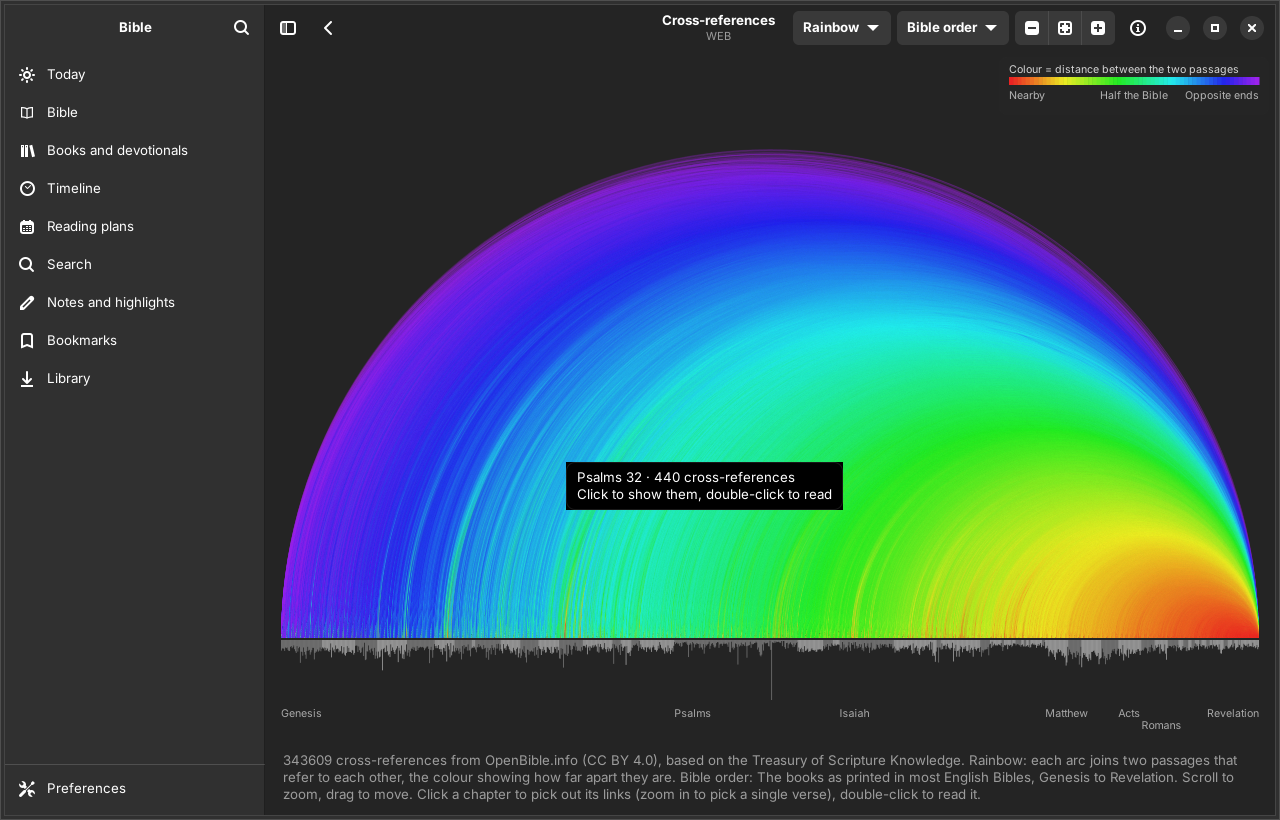
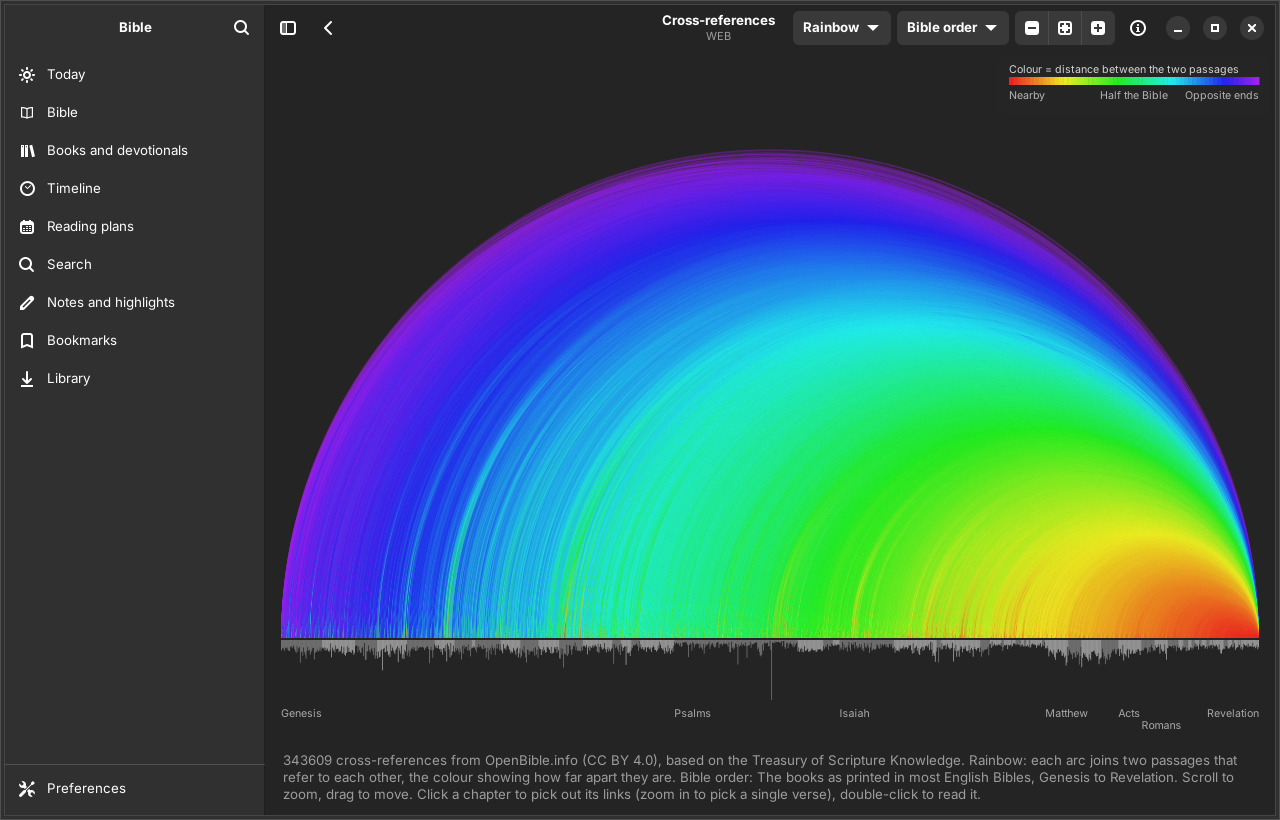
Website: redesign in the app's own style; fix the squashed screenshot

Changed region(s): [[0.4375, 0.5488, 0.6562, 0.6402]]

diff --git a/website/index.html b/website/index.html
@@ -3,73 +3,148 @@
 <head>
 <meta charset="utf-8">
 <meta name="viewport" content="width=device-width, initial-scale=1">
-<title>Bible: offline Bible study for GNOME</title>
-<meta name="description" content="A free, open-source, offline Bible app for GNOME: interlinear Greek and Hebrew, a zoomable cross-reference map, book introductions, maps, a timeline, notes, reading plans and the church year.">
+<title>Bible: an offline Bible app for GNOME</title>
+<meta name="description" content="A free, open-source, offline Bible app for GNOME, with interlinear Greek and Hebrew, a zoomable cross-reference map, book introductions, maps, a timeline, notes, reading plans and the church year.">
 <link rel="icon" href="icon.svg">
 <style>
-:root{--bg:#fafaf8;--fg:#1d1d1b;--muted:#5e5c58;--card:#fff;--line:#e4e2dc;--accent:#3584e4;--gold:#b8761a}
-@media (prefers-color-scheme:dark){:root{--bg:#1e1e1e;--fg:#f2f1ee;--muted:#b0aea8;--card:#2a2a2a;--line:#3a3a38;--accent:#78aeed;--gold:#e9b45a}}
-*{box-sizing:border-box}body{margin:0;background:var(--bg);color:var(--fg);font:17px/1.6 "Cantarell","Inter",system-ui,sans-serif}
-a{color:var(--accent)}main{max-width:1080px;margin:0 auto;padding:0 24px}
-header{text-align:center;padding:72px 0 40px}header img{width:112px;height:112px}
-h1{font-size:44px;margin:12px 0 4px;font-weight:700;letter-spacing:-.5px}.lead{font-size:21px;color:var(--muted);max-width:640px;margin:0 auto 28px}
-.btns{display:flex;gap:12px;justify-content:center;flex-wrap:wrap}.btn{display:inline-block;padding:12px 26px;border-radius:999px;text-decoration:none;font-weight:600;border:1px solid var(--line);color:var(--fg)}
-.btn.primary{background:var(--accent);border-color:var(--accent);color:#fff}
-.hero{width:100%;border-radius:14px;border:1px solid var(--line);margin:28px 0 8px;box-shadow:0 10px 40px rgba(0,0,0,.12)}
-h2{font-size:28px;margin:64px 0 16px;text-align:center}
-.grid{display:grid;grid-template-columns:repeat(auto-fit,minmax(280px,1fr));gap:16px}
-.card{background:var(--card);border:1px solid var(--line);border-radius:14px;padding:20px 22px}.card h3{margin:0 0 6px;font-size:18px}.card p{margin:0;color:var(--muted);font-size:15.5px}
-.shots{display:grid;grid-template-columns:repeat(auto-fit,minmax(420px,1fr));gap:18px}.shots figure{margin:0}.shots img{width:100%;border-radius:12px;border:1px solid var(--line)}
-figcaption{color:var(--muted);font-size:14px;text-align:center;margin-top:6px}
-pre{background:var(--card);border:1px solid var(--line);border-radius:12px;padding:16px 18px;overflow-x:auto;font-size:15px}
-.vision{max-width:720px;margin:0 auto;text-align:center;font-size:19px}.vision em{color:var(--gold);font-style:normal;font-weight:600}
-footer{color:var(--muted);font-size:14px;text-align:center;padding:56px 0 40px;border-top:1px solid var(--line);margin-top:72px}
+:root{
+  --paper:#f7f3ea;--ink:#211d17;--muted:#6b6458;--rule:#ddd4c3;--gold:#9a6412;--panel:#efe8da;
+  --serif:"Iowan Old Style","Palatino Linotype",Palatino,"Book Antiqua",Georgia,serif;
+  --sans:"Cantarell","Inter",system-ui,-apple-system,sans-serif;
+}
+@media (prefers-color-scheme:dark){:root{--paper:#1b1916;--ink:#ece6da;--muted:#a69e90;--rule:#3a352d;--gold:#e0ab55;--panel:#24211c}}
+*{box-sizing:border-box}
+body{margin:0;background:var(--paper);color:var(--ink);font:17px/1.65 var(--sans)}
+a{color:var(--gold)}
+.wrap{max-width:1120px;margin:0 auto;padding:0 28px}
+nav{display:flex;align-items:center;gap:10px;padding:22px 0;font-weight:600}
+nav img{width:30px;height:30px}
+nav .links{margin-left:auto;display:flex;gap:22px;font-weight:500;font-size:15px}
+nav .links a{color:var(--ink);text-decoration:none}
+nav .links a:hover{color:var(--gold)}
+.hero{display:grid;grid-template-columns:minmax(0,5fr) minmax(0,7fr);gap:48px;align-items:center;padding:40px 0 72px}
+.hero h1{font:400 60px/1.05 var(--serif);margin:0 0 20px;letter-spacing:-.5px}
+.hero h1 em{color:var(--gold);font-style:italic}
+.hero p{font-size:19px;color:var(--muted);margin:0 0 28px;max-width:30em}
+.actions{display:flex;gap:16px;align-items:center;flex-wrap:wrap}
+.btn{display:inline-block;background:var(--ink);color:var(--paper);padding:13px 24px;border-radius:8px;text-decoration:none;font-weight:600}
+.btn:hover{background:var(--gold);color:#fff}
+.quiet{color:var(--ink);font-weight:500}
+.note{font-size:14px;color:var(--muted);margin-top:14px}
+.shot{width:100%;height:auto;display:block;border-radius:10px;border:1px solid var(--rule);box-shadow:0 18px 50px -20px rgba(40,30,10,.45)}
+.verse{border-top:1px solid var(--rule);border-bottom:1px solid var(--rule);padding:44px 0;text-align:center}
+.verse blockquote{margin:0 auto;max-width:40em;font:italic 400 26px/1.45 var(--serif)}
+.verse cite{display:block;margin-top:10px;font:600 13px/1 var(--sans);letter-spacing:.12em;text-transform:uppercase;color:var(--muted);font-style:normal}
+.feature{display:grid;grid-template-columns:minmax(0,1fr) minmax(0,1.35fr);gap:56px;align-items:center;padding:72px 0;border-bottom:1px solid var(--rule)}
+.feature.flip{grid-template-columns:minmax(0,1.35fr) minmax(0,1fr)}
+.feature.flip .text{order:2}
+.feature h2{font:400 36px/1.15 var(--serif);margin:0 0 14px}
+.feature p{margin:0 0 12px;color:var(--muted)}
+.kicker{font:600 12px/1 var(--sans);letter-spacing:.14em;text-transform:uppercase;color:var(--gold);margin-bottom:12px}
+.more{padding:72px 0;border-bottom:1px solid var(--rule)}
+.more h2{font:400 36px/1.15 var(--serif);margin:0 0 28px}
+.more dl{display:grid;grid-template-columns:repeat(auto-fit,minmax(300px,1fr));gap:22px 48px;margin:0}
+.more dt{font-weight:600}
+.more dd{margin:2px 0 0;color:var(--muted);font-size:16px}
+.install{padding:72px 0}
+.install h2{font:400 36px/1.15 var(--serif);margin:0 0 14px}
+pre{background:var(--panel);border:1px solid var(--rule);border-radius:8px;padding:16px 18px;overflow-x:auto;font-size:15px;margin:18px 0}
+footer{border-top:1px solid var(--rule);padding:32px 0 48px;color:var(--muted);font-size:14px}
+@media (max-width:860px){
+  .hero,.feature,.feature.flip{grid-template-columns:1fr;gap:28px}
+  .feature.flip .text{order:0}
+  .hero h1{font-size:44px}
+  nav .links{display:none}
+}
 </style>
 </head>
 <body>
-<main>
-<header>
-<img src="icon.svg" alt="">
-<h1>Bible</h1>
-<p class="lead">An offline Bible app for GNOME. Free and open source, with the riches of the whole Christian tradition, as far as you want to go.</p>
-<div class="btns">
-<a class="btn primary" href="https://github.com/fonzi/bible/releases/latest">Download for Linux</a>
-<a class="btn" href="https://github.com/fonzi/bible">Source code</a>
+<div class="wrap">
+<nav><img src="icon.svg" alt="">Bible
+<span class="links"><a href="#features">Features</a><a href="#install">Install</a><a href="https://github.com/fonzi/bible">GitHub</a></span>
+</nav>
+
+<section class="hero">
+<div>
+<h1>Take up and read, <em>anywhere</em>.</h1>
+<p>A free Bible app for GNOME that works offline first, then opens the original languages, cross-references, maps, history and the church year, as far as you want to go.</p>
+<div class="actions">
+<a class="btn" href="https://github.com/fonzi/bible/releases/latest">Download for Linux</a>
+<a class="quiet" href="https://github.com/fonzi/bible">View the source →</a>
 </div>
-<img class="hero" src="screenshots/today.png" alt="The Today page: the church day, where you left off, the passage of the day, a reading plan and today in church history">
-</header>
-
-<p class="vision"><em>Offline first.</em> Everything you download stays with you and works without a connection. Then it reaches as far into Christendom as you want: original languages, cross-references, maps, history, the church year.</p>
-
-<h2>What's inside</h2>
-<div class="grid">
-<div class="card"><h3>Read offline</h3><p>Bibles, commentaries, dictionaries, books and devotionals from SWORD repositories, side by side, with the words of Christ in red.</p></div>
-<div class="card"><h3>Greek and Hebrew</h3><p>Word-by-word interlinear from STEP Bible, with glosses, plain-English grammar, lexicon entries and every occurrence of a word.</p></div>
-<div class="card"><h3>Cross-reference map</h3><p>343,000 cross-references as a rainbow of arcs. Zoom to one verse, or reorder the books by date, writer, language, culture or literary form.</p></div>
-<div class="card"><h3>Every book introduced</h3><p>Built-in introductions to all 66 books and the Apocrypha, with maps, a timeline, and full Wikipedia articles with pictures that read offline once downloaded.</p></div>
-<div class="card"><h3>Notes you own</h3><p>Highlights in named colours, Markdown notes that work with Obsidian, bookmarks with tags, and export.</p></div>
-<div class="card"><h3>The church year</h3><p>Today's feast or season for your tradition (Catholic, Orthodox, Anglican, Protestant), a passage of the day, church history and an optional fasting calendar.</p></div>
-<div class="card"><h3>Listen and follow</h3><p>Chapter audio with GNOME media controls, reading plans that wait for you, and a full-screen presentation mode.</p></div>
-<div class="card"><h3>Made for GNOME</h3><p>Built with GTK 4 and libadwaita, light and dark, with GNOME Shell search and classic printed-Bible typography if you like.</p></div>
+<p class="note">Free software, GPL-3.0. No account, no tracking.</p>
+</div>
+<img class="shot" src="screenshots/today.png" width="1280" height="820" alt="The Today page: the church day, where you left off, the passage of the day, a reading plan and today in church history">
+</section>
 </div>
 
-<h2>A closer look</h2>
-<div class="shots">
-<figure><img src="screenshots/reader.png" alt="Reading John 1 with a commentary beside it" loading="lazy"><figcaption>Reading with a commentary alongside</figcaption></figure>
-<figure><img src="screenshots/rainbow.png" alt="Every cross-reference drawn as rainbow arcs" loading="lazy"><figcaption>The cross-reference rainbow</figcaption></figure>
-<figure><img src="screenshots/intro.png" alt="The introduction to Revelation with a map of its places" loading="lazy"><figcaption>Book introductions with maps</figcaption></figure>
-<figure><img src="screenshots/timeline.png" alt="A timeline of the kings of Israel and Judah" loading="lazy"><figcaption>From the patriarchs to the apostles</figcaption></figure>
-</div>
+<div class="verse"><div class="wrap">
+<blockquote>Thy word is a lamp unto my feet, and a light unto my path.</blockquote>
+<cite>Psalm 119:105 · King James Version</cite>
+</div></div>
 
+<div class="wrap" id="features">
+<section class="feature">
+<div class="text">
+<div class="kicker">Read and study</div>
+<h2>Your Bibles and commentaries, side by side</h2>
+<p>Download translations, commentaries, dictionaries and devotionals once from SWORD repositories, then read without a connection.</p>
+<p>Tap any word for the Greek or Hebrew behind it, with grammar in plain English and every other place it appears.</p>
+</div>
+<img class="shot" src="screenshots/reader.png" width="1280" height="820" alt="Reading John 1 with a commentary beside it" loading="lazy">
+</section>
+
+<section class="feature flip">
+<div class="text">
+<div class="kicker">Cross-references</div>
+<h2>See how Scripture speaks to itself</h2>
+<p>343,000 cross-references drawn as arcs across the whole Bible. Zoom into a single verse and watch every passage that meets it.</p>
+<p>Reorder the books by when they were written, who wrote them, their language, culture or literary form, and the patterns change.</p>
+</div>
+<img class="shot" src="screenshots/rainbow.png" width="1280" height="820" alt="Every cross-reference drawn as arcs of colour" loading="lazy">
+</section>
+
+<section class="feature">
+<div class="text">
+<div class="kicker">Context</div>
+<h2>Every book introduced, mapped and dated</h2>
+<p>Each of the 66 books, and the 18 of the Apocrypha, opens with who wrote it and when, the places it names on a map, and where it sits on the timeline.</p>
+<p>Download the full Wikipedia article with its pictures and keep it for offline reading.</p>
+</div>
+<img class="shot" src="screenshots/intro.png" width="1280" height="820" alt="The introduction to Revelation with a map of its places" loading="lazy">
+</section>
+
+<section class="feature flip">
+<div class="text">
+<div class="kicker">History</div>
+<h2>From the patriarchs to the apostles</h2>
+<p>A timeline of the kings, prophets and events of the Bible, with today in church history and the feast or season of your tradition on the Today page.</p>
+</div>
+<img class="shot" src="screenshots/timeline.png" width="1280" height="820" alt="A timeline of the kings of Israel and Judah" loading="lazy">
+</section>
+
+<section class="more">
+<h2>And the rest</h2>
+<dl>
+<div><dt>Notes you own</dt><dd>Highlights in named colours and notes saved as plain Markdown files, which work with Obsidian.</dd></div>
+<div><dt>The church year</dt><dd>Catholic, Orthodox, Anglican, Lutheran and Reformed calendars, with an optional fasting calendar.</dd></div>
+<div><dt>Reading plans</dt><dd>A year through the Bible, chronological, the New Testament in 90 days, and more. They wait for you.</dd></div>
+<div><dt>Listen</dt><dd>Chapter audio for the Berean Standard Bible, with GNOME's media controls.</dd></div>
+<div><dt>Bookmarks and export</dt><dd>Tag verses, then export chapters, notes and bookmarks as Markdown.</dd></div>
+<div><dt>Made for GNOME</dt><dd>GTK 4 and libadwaita, light and dark, GNOME Shell search, and classic printed-Bible typography if you like.</dd></div>
+</dl>
+</section>
+
+<section class="install" id="install">
 <h2>Install</h2>
-<p style="text-align:center;color:var(--muted)">Download the <code>.deb</code> from the <a href="https://github.com/fonzi/bible/releases/latest">latest release</a>, then run:</p>
+<p>Download the <code>.deb</code> from the <a href="https://github.com/fonzi/bible/releases/latest">latest release</a>, then run:</p>
 <pre>sudo apt install ./bible-app_*_amd64.deb</pre>
-<p style="text-align:center;color:var(--muted);font-size:15px">Needs GTK 4.14+ and libadwaita 1.5+ (Ubuntu 24.04+, Debian 13+). Windows and macOS builds are planned.</p>
+<p class="note">Needs GTK 4.14+ and libadwaita 1.5+ (Ubuntu 24.04+, Debian 13+). Windows and macOS builds are planned.</p>
+</section>
+</div>
 
-<footer>
-Free software under the <a href="https://github.com/fonzi/bible/blob/main/LICENSE">GPL-3.0-or-later</a>.
-Data from STEP Bible (Tyndale House), OpenBible.info, Wikipedia and Wikimedia Commons, Natural Earth, CrossWire and eBible.org. See the About page in the app for full credits.
-</footer>
-</main>
+<footer><div class="wrap">
+Free software under the <a href="https://github.com/fonzi/bible/blob/main/LICENSE">GPL-3.0-or-later</a>. Data from STEP Bible (Tyndale House), OpenBible.info, Wikipedia and Wikimedia Commons, Natural Earth, CrossWire and eBible.org. Full credits are on the About page in the app.
+</div></footer>
 </body>
 </html>
